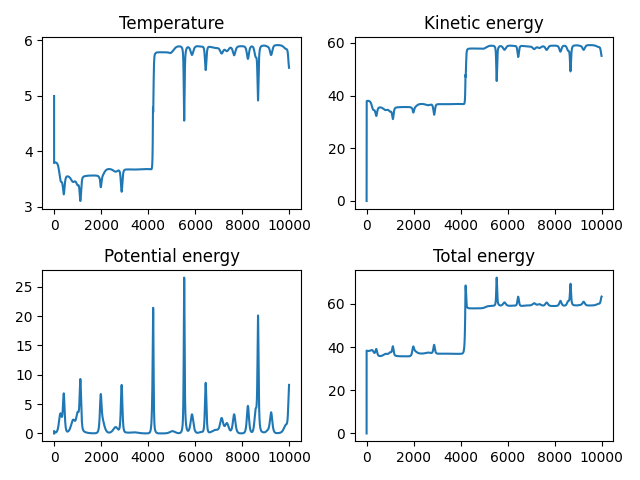
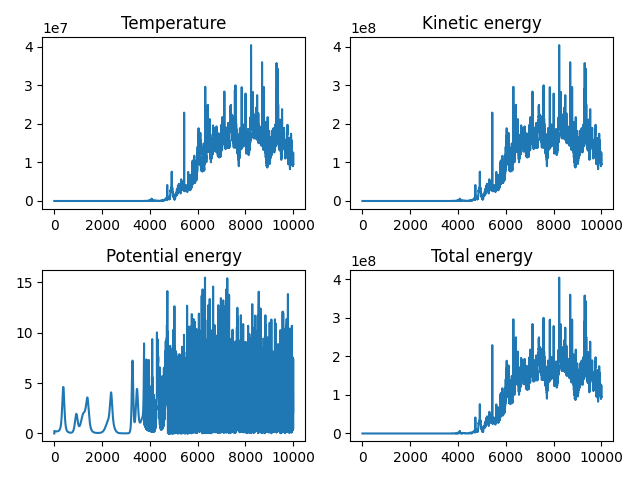
all ran again

diff --git a/Run.py b/Run.py
@@ -3,11 +3,11 @@ import matplotlib.pyplot as plt
 from MD_System_Class import Simulated_System as md
 
 # Name of the log files
-name = "alpha1"
+name = "dt001"
 # Alpha values
 alpha = 1
 # dt values
-delta_t = 0.001
+delta_t = 0.01
 
 
 # Initialise MD system:
